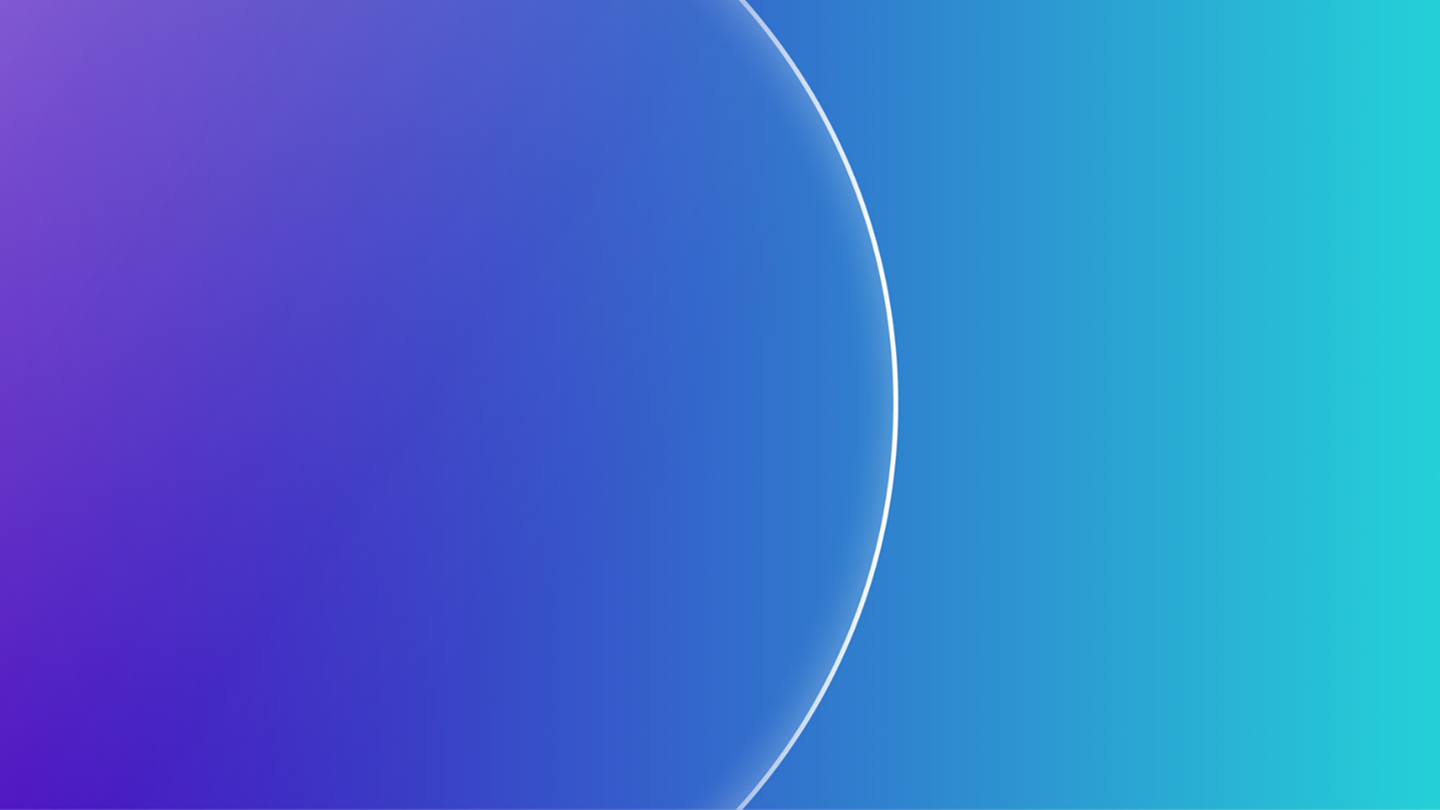
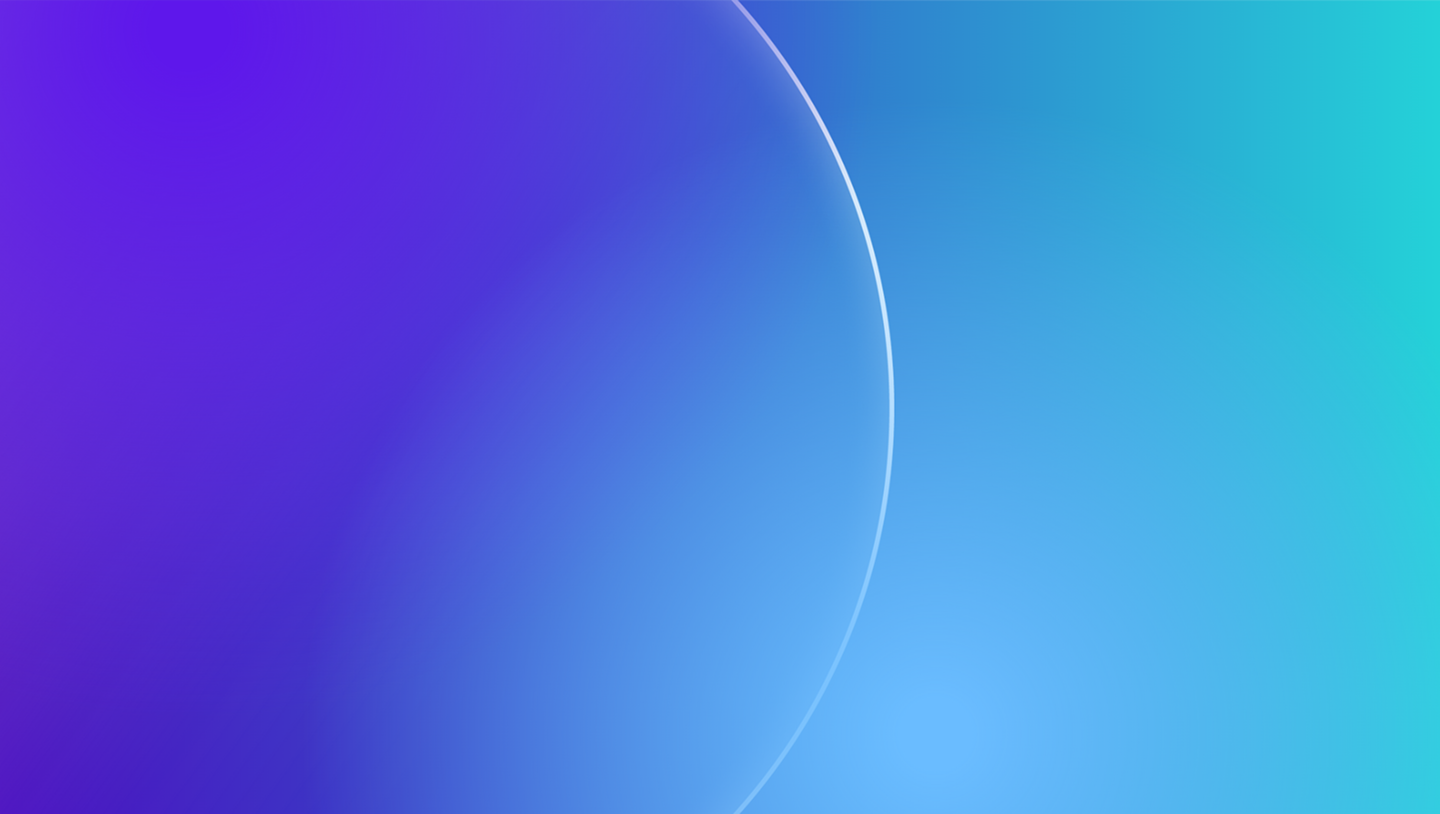
alterações nas cores utilizando variáveis do index.css

diff --git a/src/pages/SobreNos.jsx b/src/pages/SobreNos.jsx
@@ -7,29 +7,33 @@ import { HeaderLogadoClaro } from "../components/HeaderLogadoClaro"
 export function SobreNos() {
     return(
         <div>
-            <HeaderLogadoClaro/>
-            <div className="flex flex-col justify-center items-center">
-                <h1 className="text-7xl text-white font-questrial pb-20">Sobre nós</h1>
+            <div className="bg-[url('./src/assets/bgJogo1.png')]">
+                <HeaderLogadoClaro/>
+                <div className="flex flex-col justify-center items-center">
+                    <h1 className="text-7xl text-white font-questrial pb-7">Sobre nós</h1>
 
-                <div className="flex gap-20 pb-70 font-questrial text-white text-2xl">
-                    <div className="flex flex-col justify-center items-center">
-                        <img src={fatima} alt="fatima" />
-                        <p>Fatima Albuquerque</p>
-                    </div>
-                    <div className="flex flex-col justify-center items-center">
-                        <img src={laube} alt="laube" />
-                        <p>Guilherme Laube</p>
-                    </div>
-                    <div className="flex flex-col justify-center items-center">
-                        <img src={monique} alt="monique" />
-                        <p>Kathelin Monique</p>
-                    </div>
-                    <div className="flex flex-col justify-center items-center">
-                        <img src={livia} alt="livia" />
-                        <p>Lívia Santana</p>
+                    <div className="flex gap-20 pb-70 font-questrial text-white text-2xl">
+                        <div className="flex flex-col justify-center items-center">
+                            <img src={fatima} alt="fatima" />
+                            <p>Fatima Albuquerque</p>
+                        </div>
+                        <div className="flex flex-col justify-center items-center">
+                            <img src={laube} alt="laube" />
+                            <p>Guilherme Laube</p>
+                        </div>
+                        <div className="flex flex-col justify-center items-center">
+                            <img src={monique} alt="monique" />
+                            <p>Kathelin Monique</p>
+                        </div>
+                        <div className="flex flex-col justify-center items-center">
+                            <img src={livia} alt="livia" />
+                            <p>Lívia Santana</p>
+                        </div>
                     </div>
                 </div>
+            </div>
 
+            <div className="bg-[url('./src/assets/bgJogo2.png')] flex flex-col justify-center items-center">
                 <h1 className="text-7xl text-white font-questrial pb-20">Ainda tem alguma dúvida?</h1>
 
                 <div className="flex justify-center gap-30 text-white font-questrial">
@@ -39,13 +43,13 @@ export function SobreNos() {
                             Basta escrever <br />para nós pelo card ao lado ou <br />mandar diretamente pelo nosso <br />email: 
                             <br />gatoarrupiada@gmail.com</p>
                     </div>
-                    <div className="flex flex-col justify-center items-center bg-teal-200 rounded-xl px-10 pt-10 pb-3 mb-30">
-                    <form className="flex flex-col justify-center items-center gap-2 mb-10" action="">
-                        <input className="bg-white pl-5 rounded-2xl text-2xl text-purple-800 w-120 h-10" type="text" placeholder="Insira seu nome"/>
-                        <input className="bg-white pl-5 rounded-2xl text-2xl text-purple-800 w-120 h-10" type="text" placeholder="Insira seu email"/>
-                        <input className="bg-white pl-5 rounded-2xl text-2xl text-purple-800 w-120 h-30" type="text" placeholder="Fale conosco (até 500 caracteres)"/>
-                    </form>
-                    <button className="cursor-pointer bg-purple-800 text-teal-200 px-15 py-3 rounded-xl">Enviar</button>
+                    <div className="flex flex-col justify-center items-center bg-cyan-button rounded-xl px-10 pt-10 pb-3 mb-30">
+                        <form className="flex flex-col justify-center items-center gap-2 mb-10" action="">
+                            <input className="bg-white pl-5 rounded-2xl text-2xl text-light-purple w-120 h-10" type="text" placeholder="Insira seu nome"/>
+                            <input className="bg-white pl-5 rounded-2xl text-2xl text-light-purple w-120 h-10" type="text" placeholder="Insira seu email"/>
+                            <input className="bg-white pl-5 rounded-2xl text-2xl text-light-purple w-120 h-30" type="text" placeholder="Fale conosco (até 500 caracteres)"/>
+                        </form>
+                        <button className="cursor-pointer bg-purple-button2 text-cyan-button px-15 py-3 rounded-xl">ENVIAR</button>
                     </div>
                 </div>
             </div>

diff --git a/src/pages/Referencias.jsx b/src/pages/Referencias.jsx
@@ -5,20 +5,21 @@ export function Referencias() {
         <div>
             <HeaderLogadoClaro/>
             <div className="flex flex-col justify-center items-center">
-                <h1 className="text-7xl text-indigo-950 font-questrial pb-5">Referências</h1>
+                <h1 className="text-7xl text-very-dark-blue font-questrial pb-5">Referências</h1>
 
                 <div className="flex gap-30 font-questrial text-white">
-                        <p className="pt-30 text-3xl">Projeto que converte energia do <br />
-                        movimento em eletricidade para <br />
-                        carregar pequenos dispositivos <br />
-                        em situações emergenciais.</p>
+                        <p className="pt-30 text-3xl">Confira abaixo os artigos e <br />
+                        materiais que serviram de <br />
+                        inspiração e embasamento <br />
+                        para o desenvolvimento <br />
+                        deste TCC.</p>
                     
                     
-                    <div className="flex flex-col text-purple-800 text-xl gap-10 pt-10">
-                        <button className="cursor-pointer bg-teal-200 px-25 py-5 rounded-xl">NOME DO ARTIGO</button>
-                        <button className="cursor-pointer bg-teal-200 px-25 py-5 rounded-xl">NOME DO ARTIGO</button>
-                        <button className="cursor-pointer bg-teal-200 px-25 py-5 rounded-xl">NOME DO ARTIGO</button>
-                        <button className="cursor-pointer bg-teal-200 px-25 py-5 rounded-xl">NOME DO ARTIGO</button>
+                    <div className="flex flex-col text-purple-button text-xl gap-10 pt-10">
+                        <button className="cursor-pointer bg-cyan-button px-25 py-5 rounded-xl">NOME DO ARTIGO</button>
+                        <button className="cursor-pointer bg-cyan-button px-25 py-5 rounded-xl">NOME DO ARTIGO</button>
+                        <button className="cursor-pointer bg-cyan-button px-25 py-5 rounded-xl">NOME DO ARTIGO</button>
+                        <button className="cursor-pointer bg-cyan-button px-25 py-5 rounded-xl">NOME DO ARTIGO</button>
                     </div>
                 </div>
             </div>

diff --git a/src/pages/Conheca.jsx b/src/pages/Conheca.jsx
@@ -7,7 +7,7 @@ export function Conheca() {
         <div>
             <HeaderLogadoClaro/>
             <div className="flex flex-col justify-center items-center">
-                <h1 className="text-7xl text-indigo-950 font-questrial pb-5">Conheça o Vortex</h1>
+                <h1 className="text-7xl text-very-dark-blue font-questrial pb-5">Conheça o Vortex</h1>
 
                 <div className="flex gap-30 font-questrial text-white">
                     <div>
@@ -18,10 +18,10 @@ export function Conheca() {
                         <img className="w-100 h-60 br-10 rounded-xl" src={imagemProjeto} alt="imagem do projeto" />
                     </div>
                     
-                    <div className="flex flex-col text-purple-800 text-xl gap-10 pt-20">
-                        <Link to={"/ItensUsados"} className="cursor-pointer bg-teal-200 px-15 py-5 rounded-xl">Veja os itens</Link>
-                        <Link to={"/ComoUsar"} button className="cursor-pointer bg-teal-200 px-15 py-5 rounded-xl">Como usar</Link>
-                        <Link to={"/Referencias"} button className="cursor-pointer bg-teal-200 px-15 py-5 rounded-xl">Referências</Link>
+                    <div className="flex flex-col text-purple-button text-xl gap-10 pt-20">
+                        <Link to={"/ItensUsados"} className="cursor-pointer bg-cyan-button px-15 py-5 rounded-xl">Veja os itens</Link>
+                        <Link to={"/ComoUsar"} button className="cursor-pointer bg-cyan-button px-15 py-5 rounded-xl">Como usar</Link>
+                        <Link to={"/Referencias"} button className="cursor-pointer bg-cyan-button px-15 py-5 rounded-xl">Referências</Link>
                     </div>
                 </div>
             </div>

diff --git a/src/pages/Jogo.jsx b/src/pages/Jogo.jsx
@@ -17,15 +17,15 @@ export function Jogo() {
         <div>
             <HeaderLogadoClaro/>
             <div className="flex flex-col items-center">
-                <h1 className="text-8xl text-indigo-950 font-questrial pb-10">Conheça nosso jogo</h1>
+                <h1 className="text-7xl text-white font-questrial pb-10">Conheça nosso jogo</h1>
 
-                <div className="flex gap-40 pb-10 font-questrial text-white">
+                <div className="flex gap-30 pb-15 font-questrial text-white">
                     <p className="text-3xl pt-30">Um mago causa fendas no <br />
                     tempo ao tentar criar energia <br />
                     eterna. Agora, heróis devem <br />
                     reunir fragmentos para salvar <br />
                     o mundo.</p>
-                    <img className="w-140 h-120 pb-10" src={imagemJogo} alt="imagem jogo" />
+                    <img className="w-130 h-120 pb-10" src={imagemJogo} alt="imagem jogo" />
                 </div>
 
                 <div className="bg-[url('./src/assets/bgJogo1.png')] pb-45 w-full flex flex-col items-center">

diff --git a/src/pages/ComoUsar.jsx b/src/pages/ComoUsar.jsx
@@ -3,10 +3,10 @@ import { HeaderLogadoClaro } from "../components/HeaderLogadoClaro"
 
 export function ComoUsar() {
     return(
-        <div>
+        <div className="bg-[url('./src/assets/bgComoUsar.png')]">
             <HeaderLogadoClaro/>
-            <div className="flex flex-col justify-center items-center">
-                <h1 className="text-7xl text-indigo-950 font-questrial pb-5">Como usar o Vortex?</h1>
+            <div className="flex flex-col justify-center items-center pb-10">
+                <h1 className="text-7xl text-very-dark-blue font-questrial pb-5">Como usar o Vortex?</h1>
                 <img src={imagemProjeto} alt="" />
             </div>
         </div>

diff --git a/src/pages/Aplicativo.jsx b/src/pages/Aplicativo.jsx
@@ -14,7 +14,7 @@ export function Aplicativo(){
                     dispositivo e o carregamento da <br />
                     bateria.</p>
                     <div className="flex pl-40">
-                        <button className="cursor-pointer bg-teal-200 w-50 py-5 rounded-xl text-purple-800 text-xl">BAIXAR</button>
+                        <button className="cursor-pointer bg-cyan-button w-50 py-5 rounded-xl text-purple-button text-xl">BAIXAR</button>
                     </div>
                 </div>
                 <img src={imagemApp} alt="imagem aplicativo" />

diff --git a/src/pages/Home.jsx b/src/pages/Home.jsx
@@ -7,7 +7,7 @@ export function Home() {
             <HeaderLogadoClaro/>
             <div className="flex justify-center gap-20 font-questrial text-white">
                 <div className="pt-30 pr-20">
-                    <h1 className="text-9xl text-blue-300 pl-15">VORTEX</h1>
+                    <h1 className="text-9xl text-light-blue pl-15">VORTEX</h1>
                     <h2 className="text-7xl">Gere energia a partir <br />de seu movimento</h2>
                 </div>
                 

diff --git a/src/index.css b/src/index.css
@@ -7,4 +7,8 @@
     --font-questrial: 'Questrial', sans-serif;
     --color-light-blue: #63EDFD;
     --color-very-dark-blue: #2006B4;
+    --color-cyan-button: #90FFEC;
+    --color-purple-button: #6E0DBE;
+    --color-purple-button2: #6F49CC;
+    --color-light-purple: #9381BF;
 }
